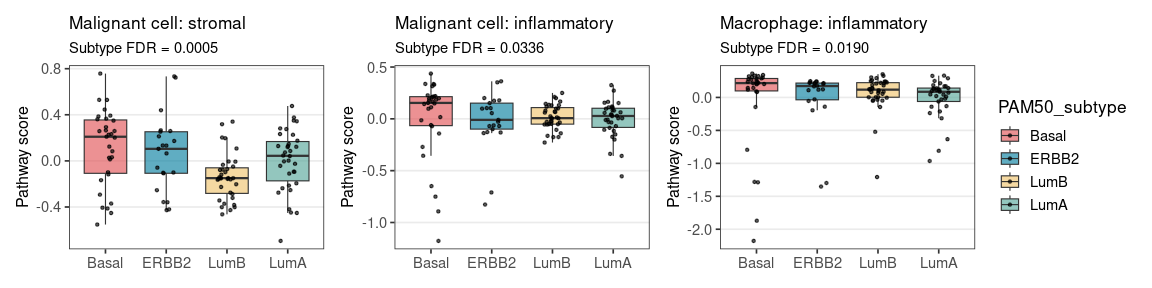
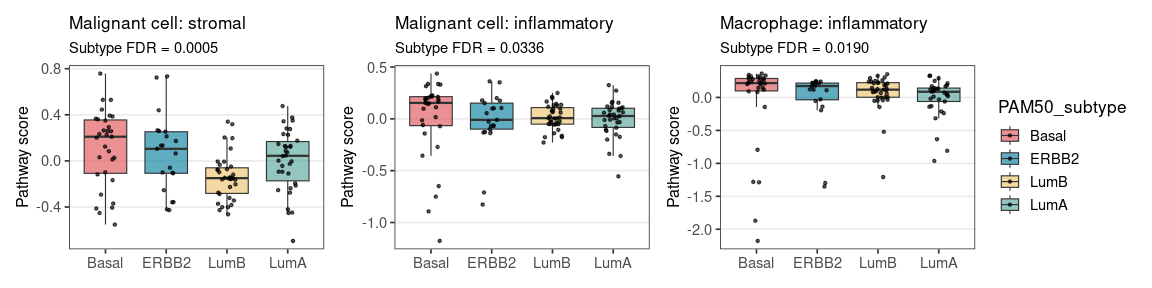
Fix tables

diff --git a/notebooks/03_dge_and_pathway_analysis.md b/notebooks/03_dge_and_pathway_analysis.md
@@ -26,7 +26,6 @@ Differential expression and pathway analysis across PAM50 subtypes
 ``` r
 cran_packages <- c(
   'pheatmap',
-  'DT',
   'gridExtra',
   'patchwork',
   'tidyverse'
@@ -58,7 +57,6 @@ for (pkg in bioc_packages[bioc_packages != 'BiocManager']) {
 library(edgeR)
 library(limma)
 library(pheatmap)
-library(DT)
 library(gridExtra)
 library(grid)
 library(GSEABase)
@@ -137,11 +135,27 @@ donors_per_cell_type <- samples_meta %>%
     values_fill = '0 (0%)'
   )
 
-datatable(donors_per_cell_type, options = list(paging = FALSE))
+knitr::kable(donors_per_cell_type, format = "pipe", align = "l")
 ```
 
-<div class="datatables html-widget html-fill-item" id="htmlwidget-d60cf1d78ea8a0010385" style="width:100%;height:auto;"></div>
-<script type="application/json" data-for="htmlwidget-d60cf1d78ea8a0010385">{"x":{"filter":"none","vertical":false,"data":[["1","2","3","4","5","6","7","8","9","10","11","12","13","14","15","16"],["B_memory","CD4_Tconv","CD8_T","Dendritic_cell","Endothelial","Exhausted_T","Fibroblast_Stromal","Macrophage","Malignant cell","Mast","Mural","NK","Naive_T","Plasma","Tfh","Treg"],["17 (55%)","17 (55%)","20 (65%)","28 (90%)","20 (65%)","20 (65%)","26 (84%)","30 (97%)","31 (100%)","2 (6%)","15 (48%)","22 (71%)","19 (61%)","18 (58%)","18 (58%)","23 (74%)"],["13 (62%)","15 (71%)","17 (81%)","11 (52%)","15 (71%)","10 (48%)","19 (90%)","20 (95%)","21 (100%)","4 (19%)","14 (67%)","16 (76%)","15 (71%)","14 (67%)","12 (57%)","19 (90%)"],["24 (71%)","31 (91%)","29 (85%)","27 (79%)","31 (91%)","12 (35%)","33 (97%)","33 (97%)","34 (100%)","13 (38%)","26 (76%)","29 (85%)","25 (74%)","20 (59%)","13 (38%)","28 (82%)"],["21 (60%)","22 (63%)","28 (80%)","25 (71%)","33 (94%)","17 (49%)","35 (100%)","35 (100%)","35 (100%)","13 (37%)","22 (63%)","26 (74%)","26 (74%)","21 (60%)","20 (57%)","26 (74%)"]],"container":"<table class=\"display\">\n  <thead>\n    <tr>\n      <th> <\/th>\n      <th>cell_type_major<\/th>\n      <th>Basal<\/th>\n      <th>ERBB2<\/th>\n      <th>LumA<\/th>\n      <th>LumB<\/th>\n    <\/tr>\n  <\/thead>\n<\/table>","options":{"paging":false,"columnDefs":[{"orderable":false,"targets":0},{"name":" ","targets":0},{"name":"cell_type_major","targets":1},{"name":"Basal","targets":2},{"name":"ERBB2","targets":3},{"name":"LumA","targets":4},{"name":"LumB","targets":5}],"order":[],"autoWidth":false,"orderClasses":false}},"evals":[],"jsHooks":[]}</script>
+| cell_type_major    | Basal     | ERBB2     | LumA      | LumB      |
+|:-------------------|:----------|:----------|:----------|:----------|
+| B_memory           | 17 (55%)  | 13 (62%)  | 24 (71%)  | 21 (60%)  |
+| CD4_Tconv          | 17 (55%)  | 15 (71%)  | 31 (91%)  | 22 (63%)  |
+| CD8_T              | 20 (65%)  | 17 (81%)  | 29 (85%)  | 28 (80%)  |
+| Dendritic_cell     | 28 (90%)  | 11 (52%)  | 27 (79%)  | 25 (71%)  |
+| Endothelial        | 20 (65%)  | 15 (71%)  | 31 (91%)  | 33 (94%)  |
+| Exhausted_T        | 20 (65%)  | 10 (48%)  | 12 (35%)  | 17 (49%)  |
+| Fibroblast_Stromal | 26 (84%)  | 19 (90%)  | 33 (97%)  | 35 (100%) |
+| Macrophage         | 30 (97%)  | 20 (95%)  | 33 (97%)  | 35 (100%) |
+| Malignant cell     | 31 (100%) | 21 (100%) | 34 (100%) | 35 (100%) |
+| Mast               | 2 (6%)    | 4 (19%)   | 13 (38%)  | 13 (37%)  |
+| Mural              | 15 (48%)  | 14 (67%)  | 26 (76%)  | 22 (63%)  |
+| NK                 | 22 (71%)  | 16 (76%)  | 29 (85%)  | 26 (74%)  |
+| Naive_T            | 19 (61%)  | 15 (71%)  | 25 (74%)  | 26 (74%)  |
+| Plasma             | 18 (58%)  | 14 (67%)  | 20 (59%)  | 21 (60%)  |
+| Tfh                | 18 (58%)  | 12 (57%)  | 13 (38%)  | 20 (57%)  |
+| Treg               | 23 (74%)  | 19 (90%)  | 28 (82%)  | 26 (74%)  |
 
 Only Mast cells have insufficient coverage and are excluded from
 downstream analysis.
@@ -272,11 +286,26 @@ deg_summary <- bind_rows(lapply(names(deg_results), function(ct) {
 })) %>%
   arrange(desc(n_genes_fdr_0.005))
 
-datatable(deg_summary, options = list(paging = FALSE))
+knitr::kable(deg_summary, format = "pipe", align = "l")
 ```
 
-<div class="datatables html-widget html-fill-item" id="htmlwidget-ffedf4095195ca34da27" style="width:100%;height:auto;"></div>
-<script type="application/json" data-for="htmlwidget-ffedf4095195ca34da27">{"x":{"filter":"none","vertical":false,"data":[["1","2","3","4","5","6","7","8","9","10","11","12","13","14","15"],["Malignant cell","Fibroblast_Stromal","Mural","Macrophage","CD4_Tconv","Endothelial","Treg","NK","Tfh","CD8_T","Exhausted_T","B_memory","Plasma","Dendritic_cell","Naive_T"],[6690,616,443,406,156,144,140,78,70,49,47,36,25,23,13],[7406,803,629,509,240,252,192,114,117,77,71,46,35,43,15],[9493,1648,1355,904,606,734,463,294,298,206,200,101,70,112,57],["MOXD1, MARCO, DLX5, PRSS12, HORMAD1","IGHG4, ZNF90, RRM2, SCN7A, UPP1","TIMP1, ADAMTS14, TSPAN15, IBSP, ADAMTS2","MT1F, MT1H, AGR3, ANKRD30A, CXCL5","AGR2, SCGB2A2, ENDOG, RBM38, CDV3","MFAP5, IGHM, PLEK2, MUCL1, ERBB2","CSTF1, FLCN, AGR2, NR2C2AP, TRPV2","MUCL1, CDV3, RABGGTA, AKT1, ARL4C","MUCL1, GPR25, TRAV38.2DV8, CDV3, EPC2","AKT1, RABGGTA, DCAF10, RABL6, NGRN","ENDOD1, MUCL1, ABCC1, MAPKAP1, SCGB2A2","ENDOD1, AGR2, FLCN, CBFA2T3, PRKAB1","CTCF, MFGE8, IGKV3.7, RBM23, ANKRD30A","MMP12, MUCL1, HBB, PPM1N, AGR2","MAPRE1, ILK, CXCL13, NGRN, ATXN10"]],"container":"<table class=\"display\">\n  <thead>\n    <tr>\n      <th> <\/th>\n      <th>cell_type<\/th>\n      <th>n_genes_fdr_0.005<\/th>\n      <th>n_genes_fdr_0.01<\/th>\n      <th>n_genes_fdr_0.05<\/th>\n      <th>top5_genes<\/th>\n    <\/tr>\n  <\/thead>\n<\/table>","options":{"paging":false,"columnDefs":[{"className":"dt-right","targets":[2,3,4]},{"orderable":false,"targets":0},{"name":" ","targets":0},{"name":"cell_type","targets":1},{"name":"n_genes_fdr_0.005","targets":2},{"name":"n_genes_fdr_0.01","targets":3},{"name":"n_genes_fdr_0.05","targets":4},{"name":"top5_genes","targets":5}],"order":[],"autoWidth":false,"orderClasses":false}},"evals":[],"jsHooks":[]}</script>
+| cell_type | n_genes_fdr_0.005 | n_genes_fdr_0.01 | n_genes_fdr_0.05 | top5_genes |
+|:---|:---|:---|:---|:---|
+| Malignant cell | 6690 | 7406 | 9493 | MOXD1, MARCO, DLX5, PRSS12, HORMAD1 |
+| Fibroblast_Stromal | 616 | 803 | 1648 | IGHG4, ZNF90, RRM2, SCN7A, UPP1 |
+| Mural | 443 | 629 | 1355 | TIMP1, ADAMTS14, TSPAN15, IBSP, ADAMTS2 |
+| Macrophage | 406 | 509 | 904 | MT1F, MT1H, AGR3, ANKRD30A, CXCL5 |
+| CD4_Tconv | 156 | 240 | 606 | AGR2, SCGB2A2, ENDOG, RBM38, CDV3 |
+| Endothelial | 144 | 252 | 734 | MFAP5, IGHM, PLEK2, MUCL1, ERBB2 |
+| Treg | 140 | 192 | 463 | CSTF1, FLCN, AGR2, NR2C2AP, TRPV2 |
+| NK | 78 | 114 | 294 | MUCL1, CDV3, RABGGTA, AKT1, ARL4C |
+| Tfh | 70 | 117 | 298 | MUCL1, GPR25, TRAV38.2DV8, CDV3, EPC2 |
+| CD8_T | 49 | 77 | 206 | AKT1, RABGGTA, DCAF10, RABL6, NGRN |
+| Exhausted_T | 47 | 71 | 200 | ENDOD1, MUCL1, ABCC1, MAPKAP1, SCGB2A2 |
+| B_memory | 36 | 46 | 101 | ENDOD1, AGR2, FLCN, CBFA2T3, PRKAB1 |
+| Plasma | 25 | 35 | 70 | CTCF, MFGE8, IGKV3.7, RBM23, ANKRD30A |
+| Dendritic_cell | 23 | 43 | 112 | MMP12, MUCL1, HBB, PPM1N, AGR2 |
+| Naive_T | 13 | 15 | 57 | MAPRE1, ILK, CXCL13, NGRN, ATXN10 |
 
 ### Generate heatmaps of top differentially expressed genes
 
@@ -406,6 +435,7 @@ grid.arrange(grobs = heatmap_grobs, nrow = 2, ncol = 4)
 ```
 
 <img src="03_dge_and_pathway_analysis_files/figure-gfm/tensor-score-heatmaps-1.png" alt="" style="display: block; margin: auto;" />
+
 Across these cell types, expression follows a broad gradient from
 Basal/ERBB2 toward Luminal subtypes, consistent with the CCC result
 where the dominant communication program is strongest in Basal and ERBB2
@@ -708,11 +738,25 @@ pathway_test_summary <- bind_rows(summary_rows) %>%
   select(cell_type, program, n_genes, subtype_FDR, batch_FDR) %>%
   arrange(subtype_FDR)
 
-datatable(pathway_test_summary, options = list(paging = FALSE))
+knitr::kable(pathway_test_summary, format = "pipe", align = "l")
 ```
 
-<div class="datatables html-widget html-fill-item" id="htmlwidget-934030794552b8ea114c" style="width:100%;height:auto;"></div>
-<script type="application/json" data-for="htmlwidget-934030794552b8ea114c">{"x":{"filter":"none","vertical":false,"data":[["1","2","3","4","5","6","7","8","9","10","11","12","13","14"],["Malignant cell","Macrophage","Malignant cell","Macrophage","Dendritic_cell","Treg","NK","Dendritic_cell","NK","Macrophage","Treg","NK","Dendritic_cell","Treg"],["stromal","infl_myel","inflammatory","adhes","adhes","infl_nk_t","infl_nk_t","infl_myel","adhes","homing","homing","homing","homing","adhes"],[357,614,749,193,133,444,356,525,93,232,149,108,184,115],["0.0005","0.0190","0.0336","0.0706","0.0706","0.0706","0.0706","0.0870","0.3944","0.4158","0.4255","0.6325","0.6474","0.6474"],["1.05e-06","7.04e-08","3.43e-07","3.60e-05","4.89e-07","8.99e-10","9.20e-09","7.04e-08","1.34e-05","8.99e-10","2.66e-09","9.58e-09","1.37e-09","3.10e-06"]],"container":"<table class=\"display\">\n  <thead>\n    <tr>\n      <th> <\/th>\n      <th>cell_type<\/th>\n      <th>program<\/th>\n      <th>n_genes<\/th>\n      <th>subtype_FDR<\/th>\n      <th>batch_FDR<\/th>\n    <\/tr>\n  <\/thead>\n<\/table>","options":{"paging":false,"columnDefs":[{"className":"dt-right","targets":3},{"orderable":false,"targets":0},{"name":" ","targets":0},{"name":"cell_type","targets":1},{"name":"program","targets":2},{"name":"n_genes","targets":3},{"name":"subtype_FDR","targets":4},{"name":"batch_FDR","targets":5}],"order":[],"autoWidth":false,"orderClasses":false}},"evals":[],"jsHooks":[]}</script>
+| cell_type      | program      | n_genes | subtype_FDR | batch_FDR |
+|:---------------|:-------------|:--------|:------------|:----------|
+| Malignant cell | stromal      | 357     | 0.0005      | 1.05e-06  |
+| Macrophage     | infl_myel    | 614     | 0.0190      | 7.04e-08  |
+| Malignant cell | inflammatory | 749     | 0.0336      | 3.43e-07  |
+| Macrophage     | adhes        | 193     | 0.0706      | 3.60e-05  |
+| Dendritic_cell | adhes        | 133     | 0.0706      | 4.89e-07  |
+| Treg           | infl_nk_t    | 444     | 0.0706      | 8.99e-10  |
+| NK             | infl_nk_t    | 356     | 0.0706      | 9.20e-09  |
+| Dendritic_cell | infl_myel    | 525     | 0.0870      | 7.04e-08  |
+| NK             | adhes        | 93      | 0.3944      | 1.34e-05  |
+| Macrophage     | homing       | 232     | 0.4158      | 8.99e-10  |
+| Treg           | homing       | 149     | 0.4255      | 2.66e-09  |
+| NK             | homing       | 108     | 0.6325      | 9.58e-09  |
+| Dendritic_cell | homing       | 184     | 0.6474      | 1.37e-09  |
+| Treg           | adhes        | 115     | 0.6474      | 3.10e-06  |
 
 Significant subtype-associated pathway differences are detected only in
 malignant cells and macrophages.

diff --git a/README.md b/README.md
@@ -252,7 +252,6 @@ Key R packages used across the project:
 | limma | 3.68.3 |
 | GSEABase | 1.74.0 |
 | pheatmap | 1.0.13 |
-| DT | 0.34.0 |
 | gridExtra | 2.3 |
 | patchwork | 1.3.2 |
 | tidyverse | 2.0.0 |